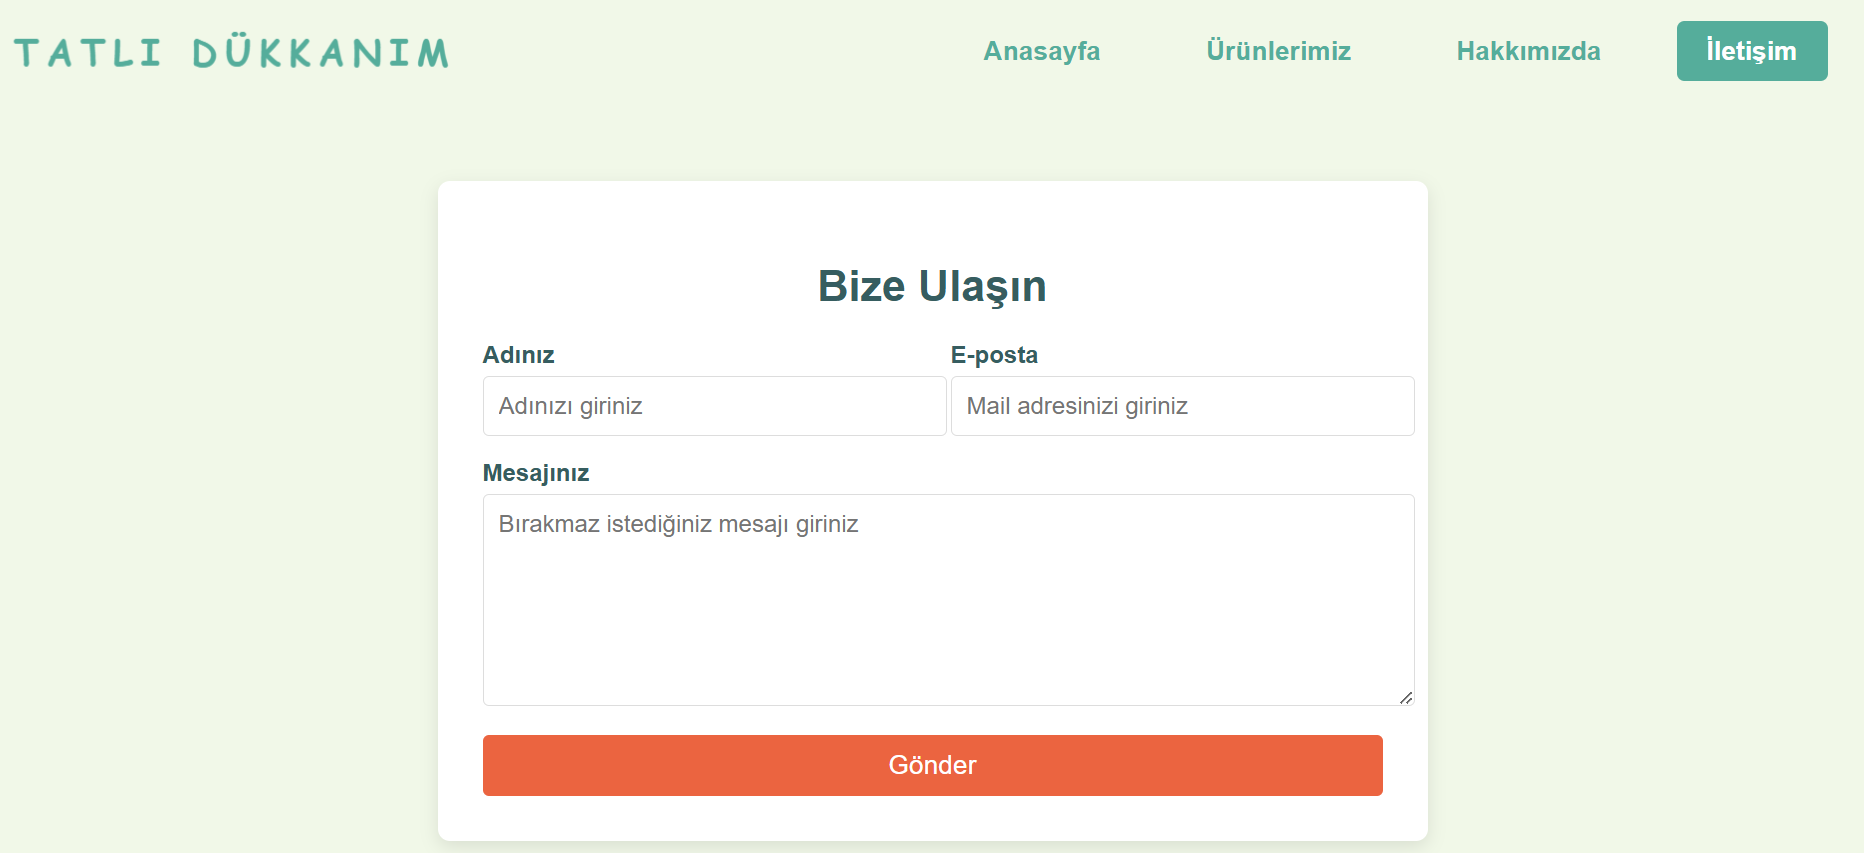
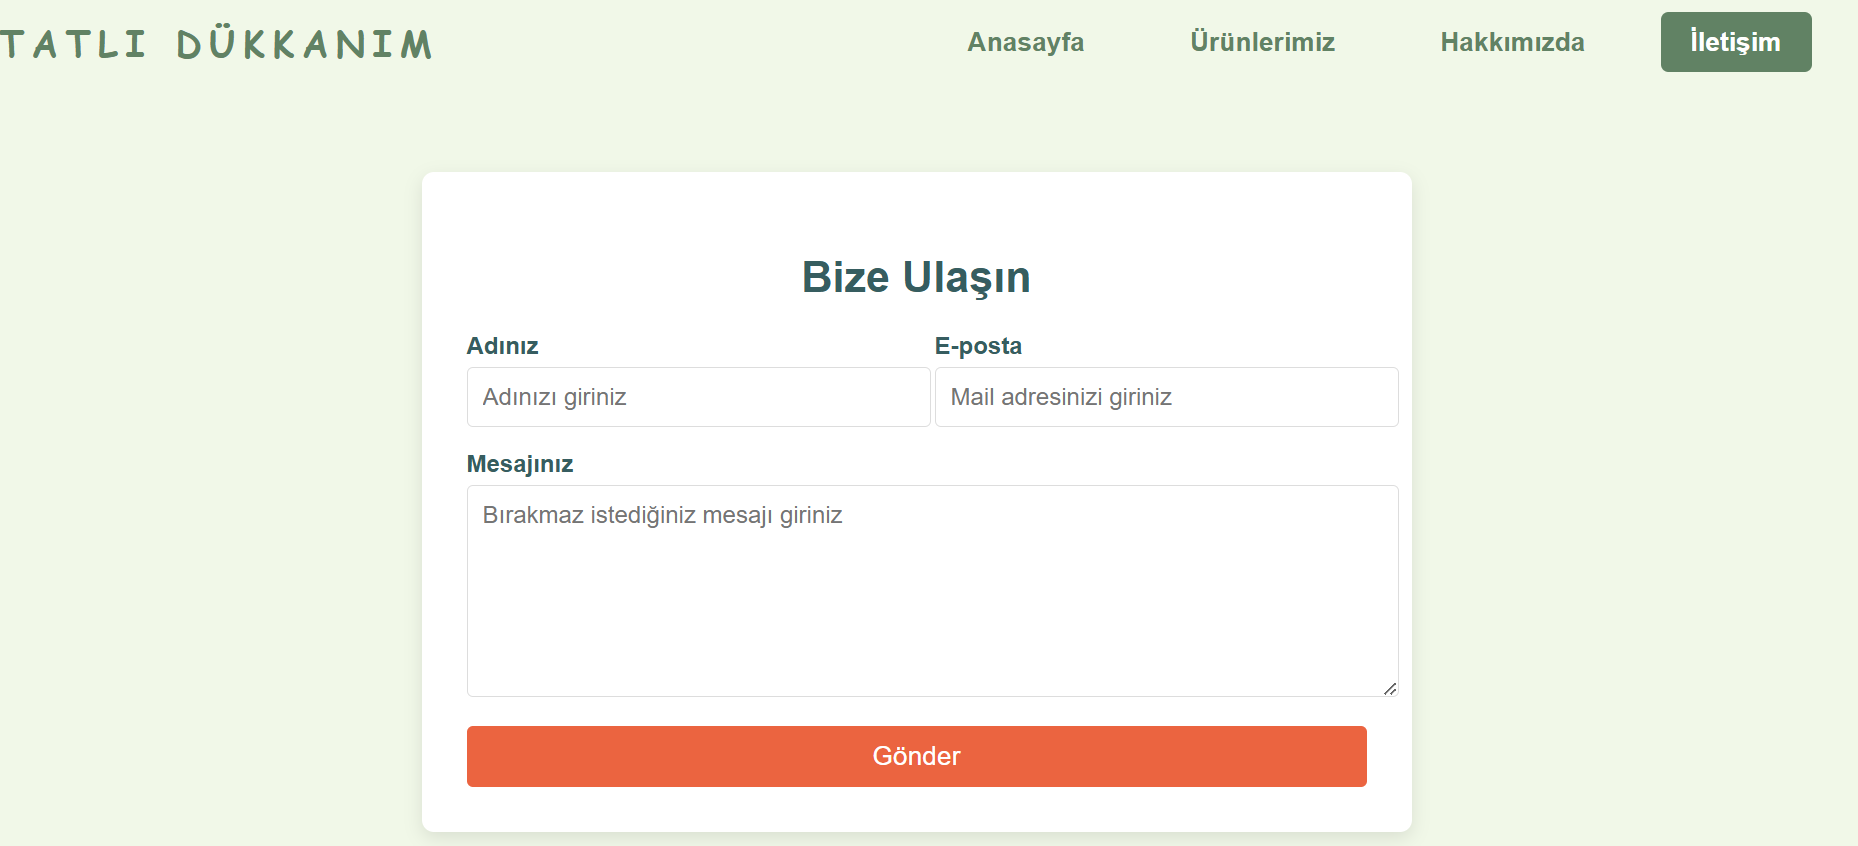
updated color

diff --git a/tatlidukkanim/style.css b/tatlidukkanim/style.css
@@ -36,7 +36,7 @@ header h1 {
 .logo {
     font-family: 'Pacifico', cursive;
     font-size: 1.5em;
-    color: #55AD9B;
+    color: #618264;
     text-transform: uppercase;
     letter-spacing: 5px;
     margin: 0;
@@ -61,7 +61,7 @@ header h1 {
 }
 
 .menu a {
-    color: #55AD9B;
+    color: #618264;
     text-decoration: none;
     font-size: 1.1em;
     font-weight: bold;
@@ -71,12 +71,12 @@ header h1 {
 }
 
 .menu a:hover {
-    background-color: #55AD9B;
+    background-color: #618264;
     color: white;
 }
 
 .menu a.active {
-    background-color: #55AD9B;
+    background-color: #618264;
     color: white;
 }
 
@@ -255,7 +255,7 @@ header h1 {
 }
 
 .product-link h3 {
-    color: #55AD9B;
+    color: #618264;
     font-size: 1.4em;
     margin: 10px 0;
 }
@@ -376,7 +376,7 @@ footer {
 footer p {
     font-size: 1em;
     margin: 0;
-    color: #55AD9B;
+    color: #618264;
 }
 
 .footer-menu {
@@ -391,7 +391,7 @@ footer p {
 }
 
 .footer-menu a {
-    color: #55AD9B;
+    color: #618264;
     text-decoration: none;
     font-size: 1.1em;
     font-weight: bold;
@@ -401,7 +401,7 @@ footer p {
 }
 
 .footer-menu a:hover {
-    background-color: #55AD9B;
+    background-color: #618264;
     color: white;
 }
 
